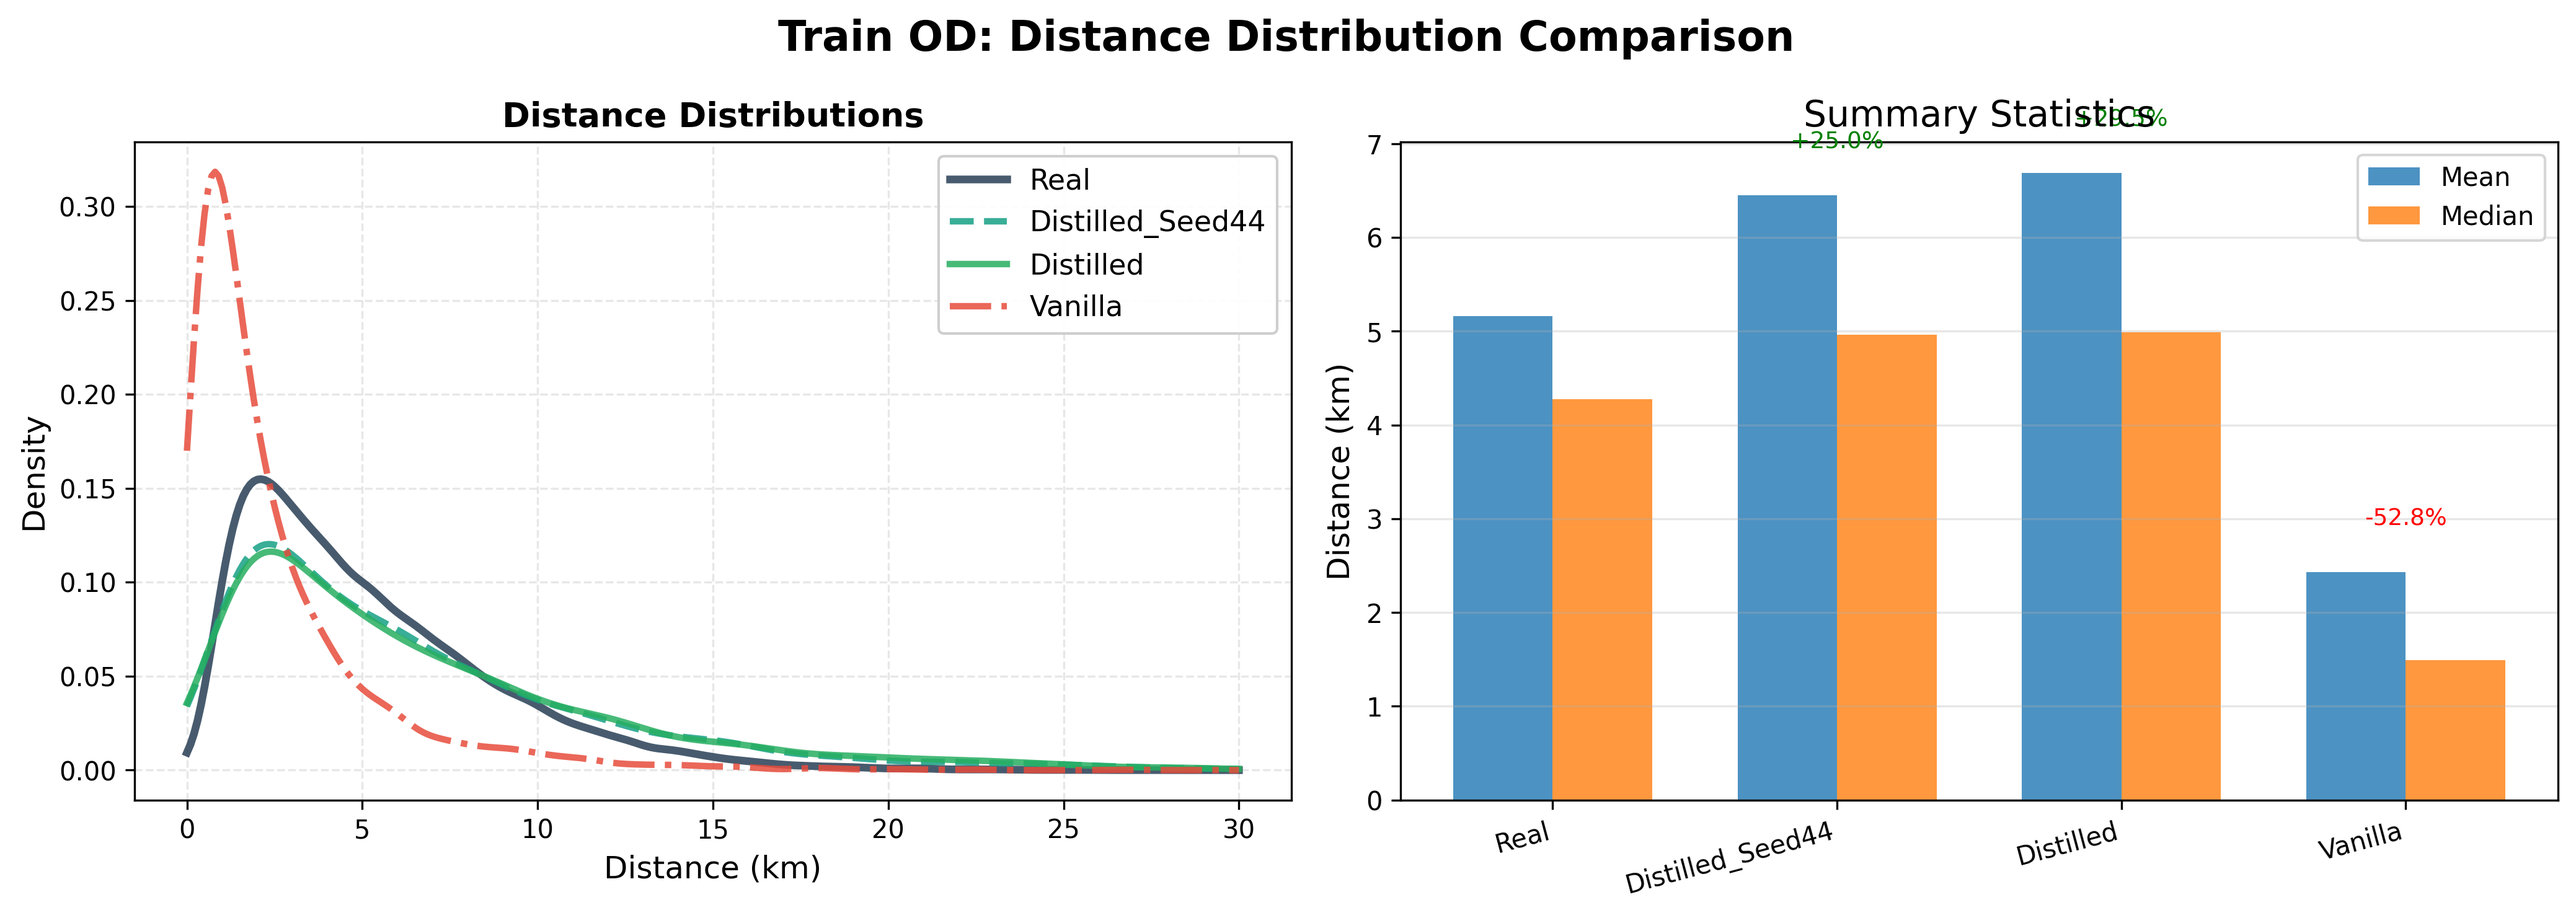
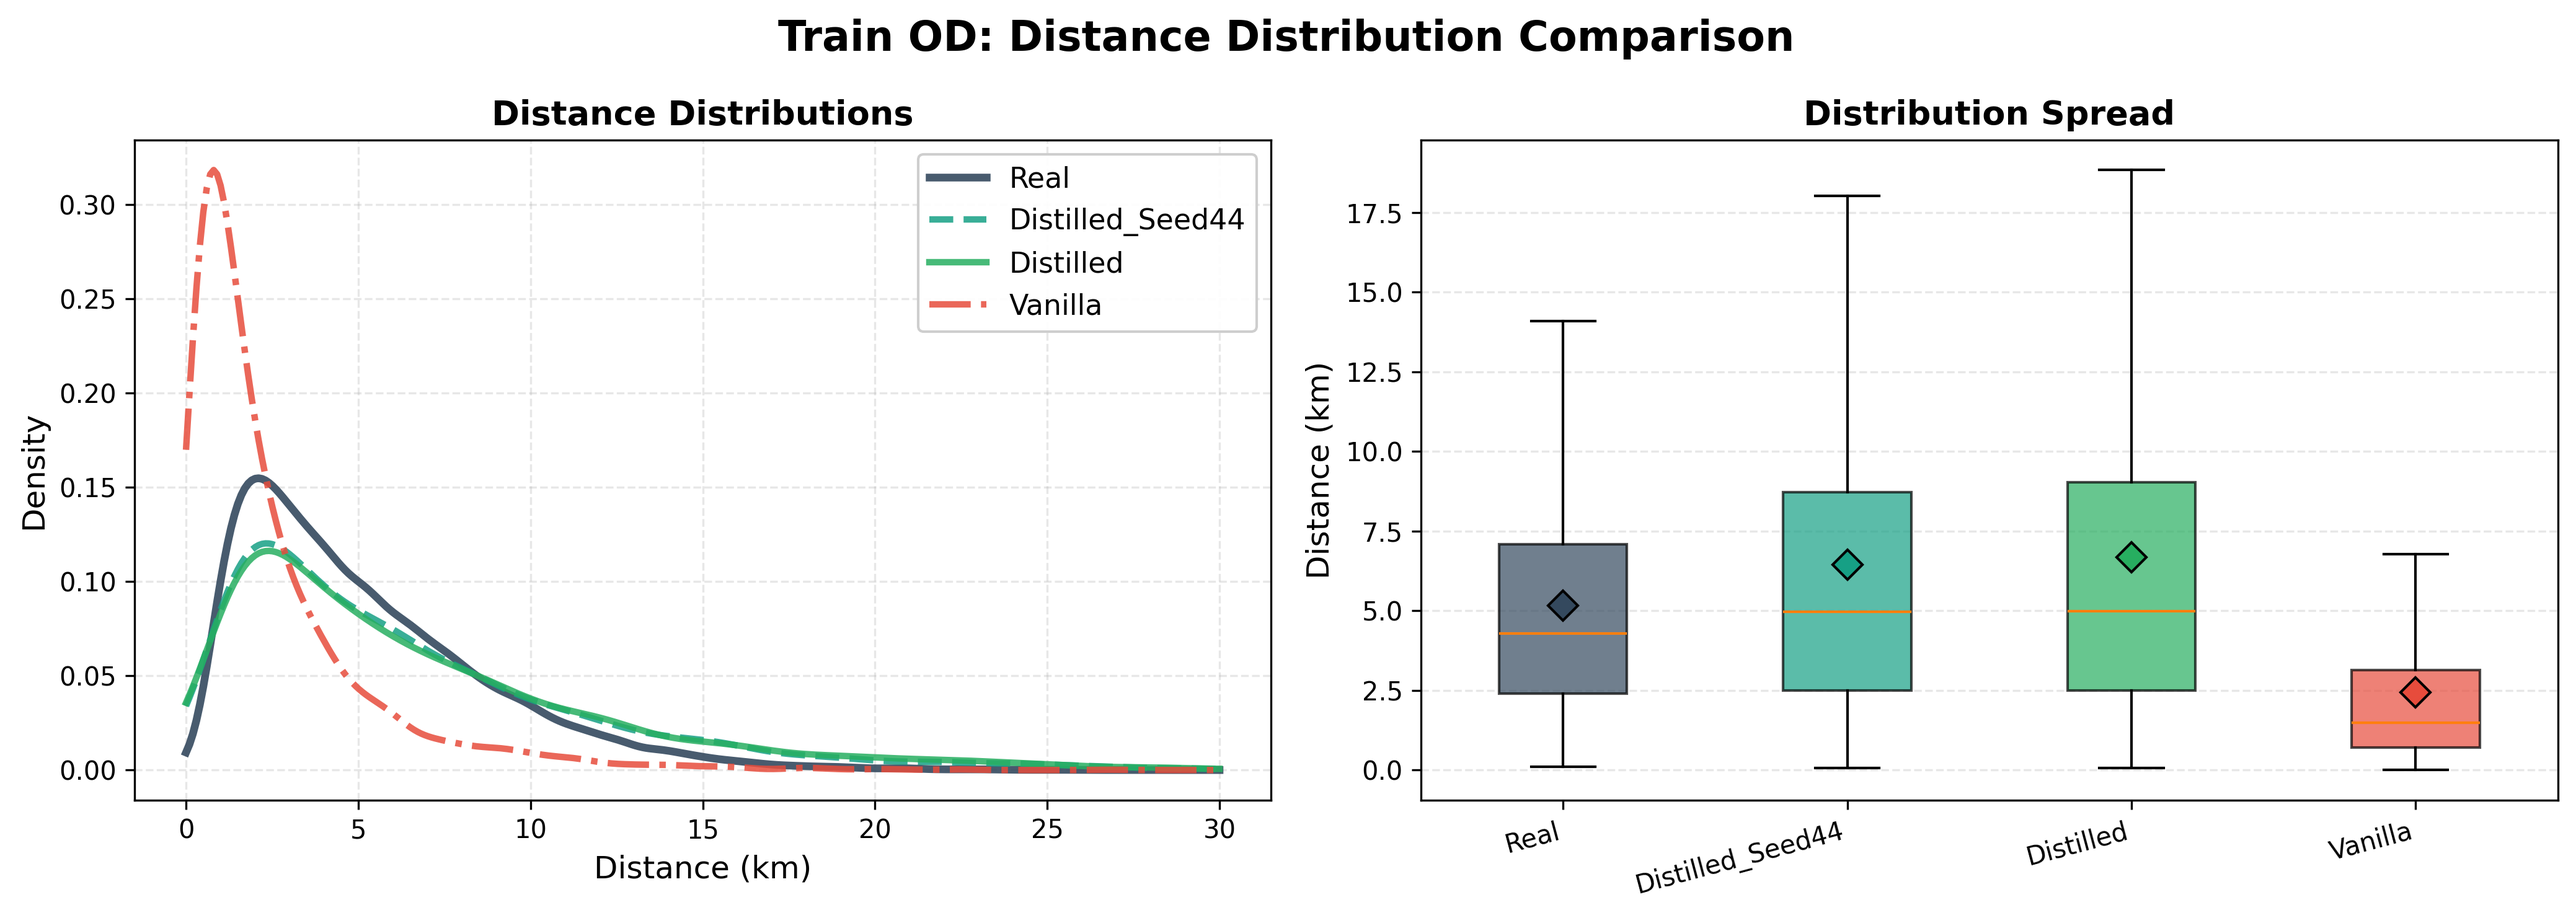
♻ refactor: use box plots for all distribution statistics
Changed distance plots to use box plots instead of bar charts:
- Box plots show median, quartiles (IQR), and range
- More informative than mean/median bars
- Consistent with radius plots
- Color-coded to match KDE curves
- Mean shown as diamond markers for additional context

Benefits:
✅ Shows full distribution shape (spread, skewness)
✅ Easy to spot outliers and variability
✅ Median (line in box) vs Mean (diamond) comparison
✅ Consistent visualization style across all metrics
✅ More publication-appropriate

All 4 plots now use identical format:
- Left: KDE density curves
- Right: Box plots with mean markers

diff --git a/hoser-distill-optuna-6/create_distribution_plots.py b/hoser-distill-optuna-6/create_distribution_plots.py
@@ -295,42 +295,33 @@ class DistributionPlotter:
         ax1.legend(fontsize=11, framealpha=0.95)
         ax1.grid(True, alpha=0.3, linestyle='--')
         
-        # Right: Statistics comparison
-        stats_data = []
-        stats_labels = []
+        # Right: Box plots
+        box_data = [real_distances]
+        box_labels = ['Real']
+        box_colors = [COLORS['real_train']]
         
-        real_mean = np.mean(real_distances)
-        real_median = np.median(real_distances)
-        stats_data.append([real_mean, real_median])
-        stats_labels.append('Real')
-        
-        for model_key, distances in generated_distances.items():
+        for model_key, distances in sorted(generated_distances.items()):
             model_name = model_key.replace('_train', '').replace('_test', '')
-            mean_dist = np.mean(distances)
-            median_dist = np.median(distances)
-            stats_data.append([mean_dist, median_dist])
-            stats_labels.append(model_name.title())
+            box_data.append(distances)
+            box_labels.append(model_name.title())
+            box_colors.append(COLORS.get(model_name, '#95a5a6'))
         
-        x = np.arange(len(stats_labels))
-        width = 0.35
+        bp = ax2.boxplot(box_data, tick_labels=box_labels, patch_artist=True, showfliers=False)
         
-        ax2.bar(x - width/2, [s[0] for s in stats_data], width, label='Mean', alpha=0.8)
-        ax2.bar(x + width/2, [s[1] for s in stats_data], width, label='Median', alpha=0.8)
+        for patch, color in zip(bp['boxes'], box_colors):
+            patch.set_facecolor(color)
+            patch.set_alpha(0.7)
         
-        ax2.set_ylabel('Distance (km)')
-        ax2.set_title('Summary Statistics')
-        ax2.set_xticks(x)
-        ax2.set_xticklabels(stats_labels, rotation=15, ha='right')
-        ax2.legend()
-        ax2.grid(True, alpha=0.3, axis='y')
+        ax2.set_ylabel('Distance (km)', fontsize=12)
+        ax2.set_title('Distribution Spread', fontsize=13, fontweight='bold')
+        ax2.set_xticklabels(box_labels, rotation=15, ha='right', fontsize=10)
+        ax2.grid(True, alpha=0.3, axis='y', linestyle='--')
         
-        # Add percentage differences
-        for i, label in enumerate(stats_labels):
-            if label != 'Real':
-                diff_pct = ((stats_data[i][0] - real_mean) / real_mean) * 100
-                y_pos = stats_data[i][0] + 0.5
-                color = 'green' if abs(diff_pct) < 30 else 'red'
-                ax2.text(i, y_pos, f'{diff_pct:+.1f}%', ha='center', fontsize=9, color=color)
+        # Add mean as diamonds
+        for i, (data, color) in enumerate(zip(box_data, box_colors), start=1):
+            mean_val = np.mean(data)
+            ax2.plot(i, mean_val, marker='D', color=color, markersize=8, 
+                    markeredgecolor='black', markeredgewidth=1, zorder=3)
         
         fig.suptitle(title, fontsize=16, fontweight='bold')
         plt.tight_layout()
